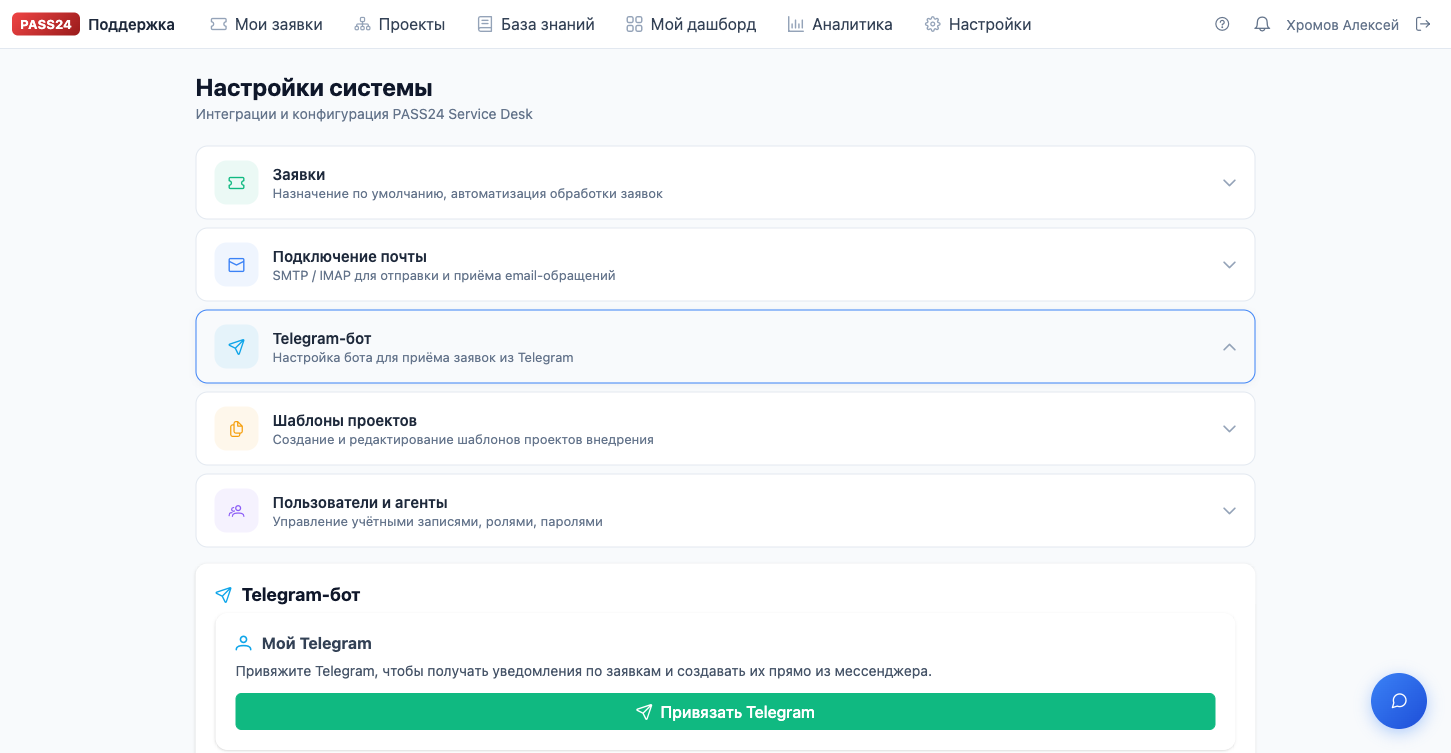
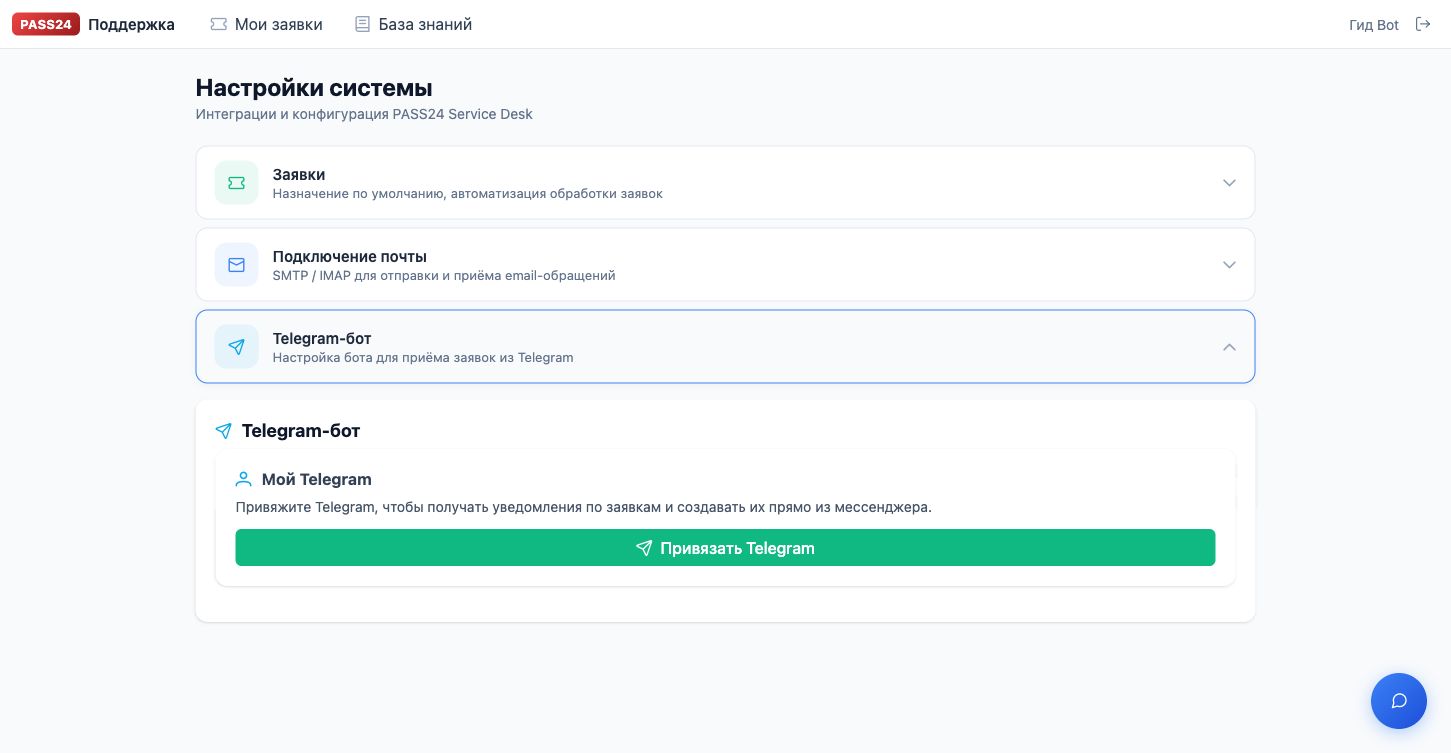
docs: capture portal screenshots 01 + 02 (idle + QR states) via Playwright
Registered a throwaway resident test user on prod, logged in via Playwright,
captured both TelegramLinkCard states in one session. 25 bot-side screenshots
still require a real Telegram client (can't be automated without a TG
account). Guide-header checklist updated accordingly.

diff --git a/agent_docs/telegram-bot-user-guide.md b/agent_docs/telegram-bot-user-guide.md
@@ -8,7 +8,7 @@
 | # | Файл | Источник | Готов |
 |---|---|---|---|
 | 01 | settings-telegram-idle.png | Playwright (portal) | ✅ |
-| 02 | settings-telegram-qr.png | Portal после клика «Привязать» | ⏳ нужен человек |
+| 02 | settings-telegram-qr.png | Playwright (portal) | ✅ |
 | 03 | bot-linked-confirmation.png | Telegram-клиент | ⏳ нужен человек |
 | 04 | settings-telegram-linked.png | Portal в linked-состоянии | ⏳ нужен человек |
 | 05 | bot-main-menu.png | Telegram-клиент | ⏳ нужен человек |
